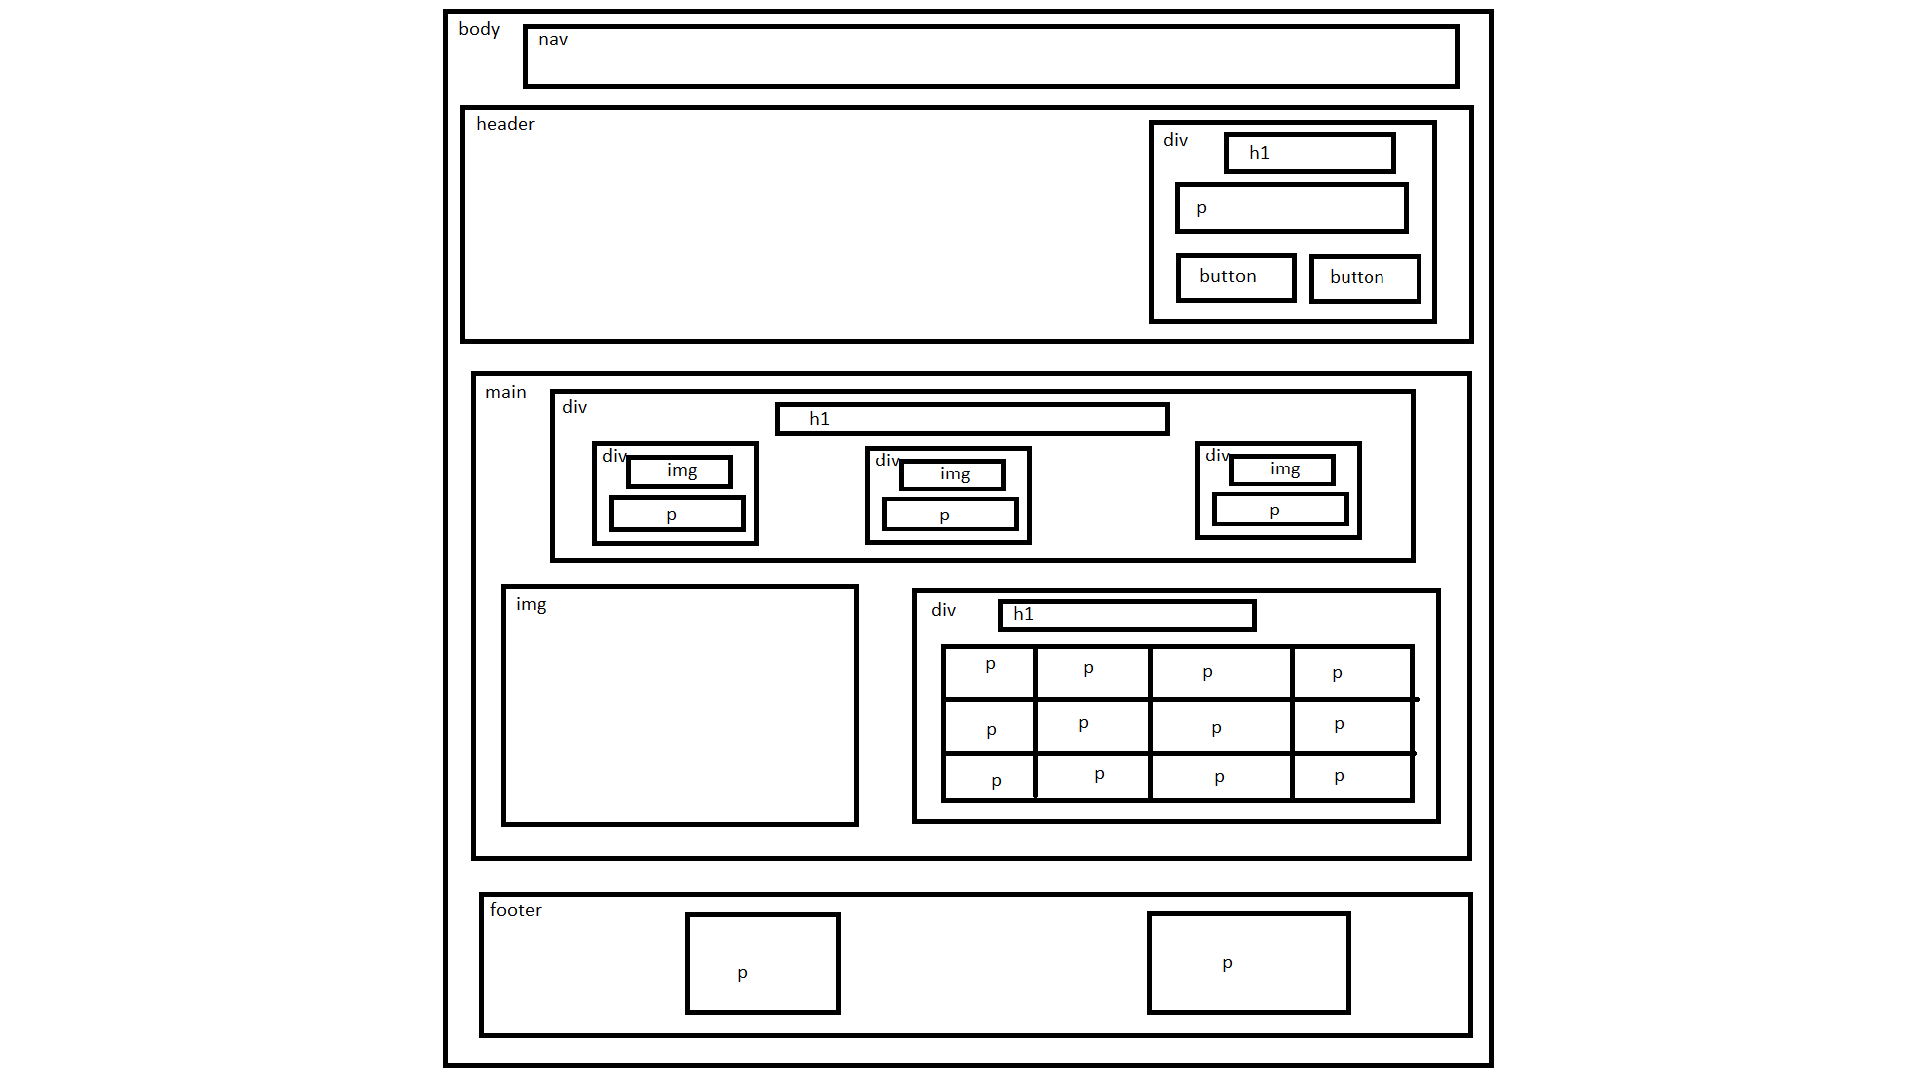
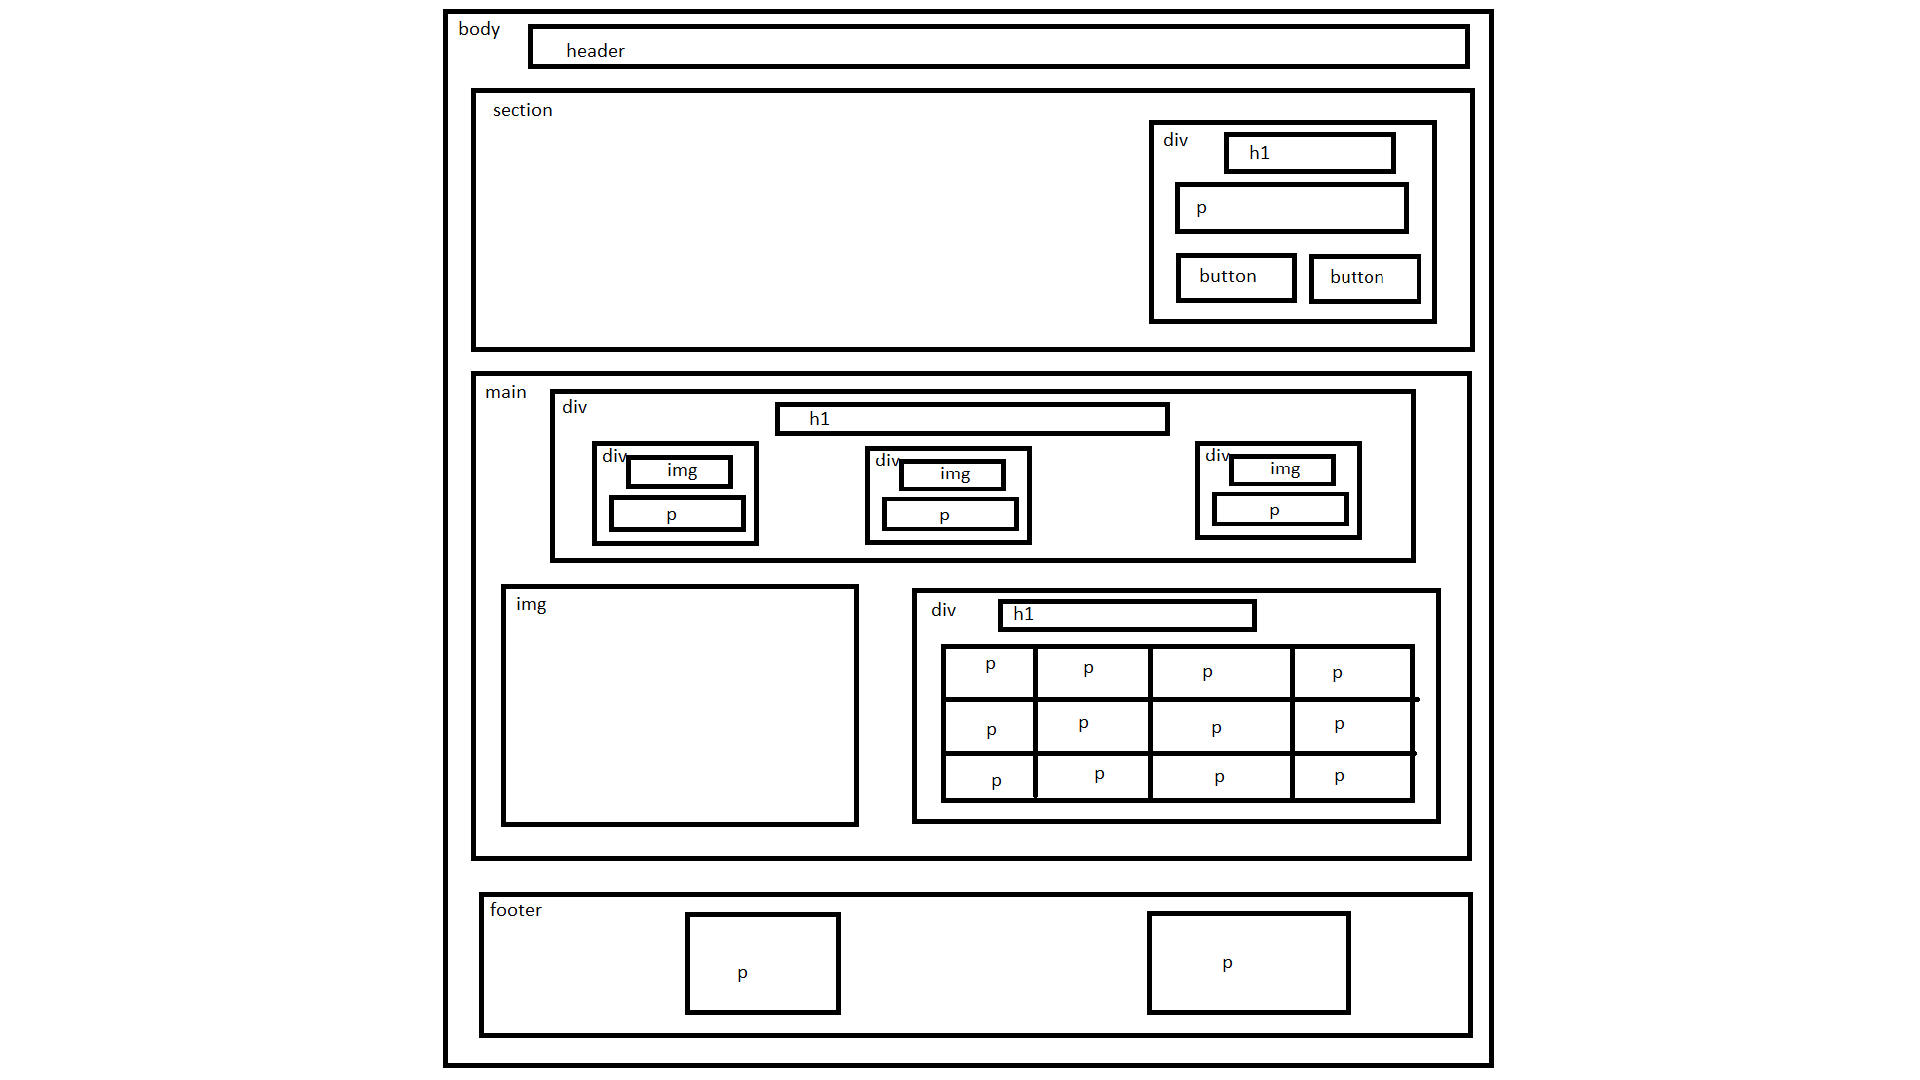
Onderdeel 8

Changed region(s): [[0.2188, 0.0306, 0.7812, 0.3361]]

diff --git a/CSS/Onderdeel 8/Chef.css b/CSS/Onderdeel 8/Chef.css
@@ -1,0 +1,37 @@
+body{font-family: 'Lobster', cursive;
+        background-color:rgb(136, 119, 119);
+        margin: 0px;
+        padding: 0px;}
+
+header{text-align: right;}
+
+ul{list-style-type: none;}
+ul li{display: inline-block;
+        padding: 5px;
+        font-size: 2em;}
+
+section{position: relative;}
+
+section::before{position: absolute;
+        content: "";
+        background-image: url(./cooking.jpg);
+        filter:brightness(50%);
+        background-size: cover;
+        height: 450px;
+        width: 100%;
+        margin-top: -40px;
+        top: 0px;
+        left: 0px;}
+
+.cooking{margin-left: 50%;
+            color: rgb(97, 135, 216);
+        position: relative;}
+
+#buy{color: rgb(97, 135, 216);}
+#show{color: rgb(128, 179, 128);}
+button{padding: 5px 15px 5px 15px;
+        background: none;
+        border-color:  rgb(128, 179, 128);}
+
+#cookingtitle{font-size: 52px;
+                margin-bottom: 0px;}

diff --git a/CSS/Onderdeel 8/Chef.html b/CSS/Onderdeel 8/Chef.html
@@ -1,12 +1,30 @@
 <!DOCTYPE html>
 <html lang="en">
+
 <head>
     <meta charset="UTF-8">
     <meta name="viewport" content="width=device-width, initial-scale=1.0">
     <title>Cooking</title>
+    <link href="https://fonts.googleapis.com/css2?family=Lobster&display=swap" rel="stylesheet">
     <link href="Chef.css" rel="stylesheet">
 </head>
+
 <body>
-    
+        <header>
+            <ul>
+                <li>Home</li>
+                <li>Menu</li>
+                <li>Contact</li>
+            </ul>
+        </header>
+        <section>
+            <div class="cooking">
+                <h1 id="cookingtitle">Cooking</h1>
+                <p>Lorem ipsum dolor sit amet, consectetur adipisicing elit. Ut, repellat!</p>
+                <button id="buy">BUY</button>
+                <button id="show">SHOW MORE</button>
+            </div>
+        </section>
 </body>
+
 </html>
